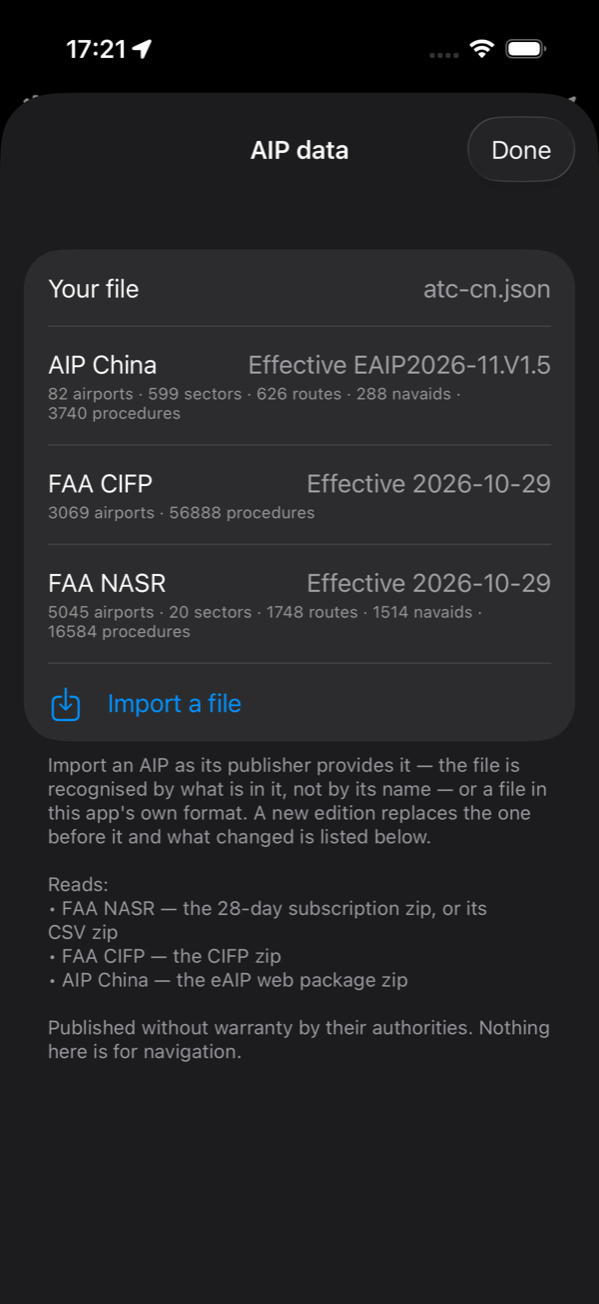
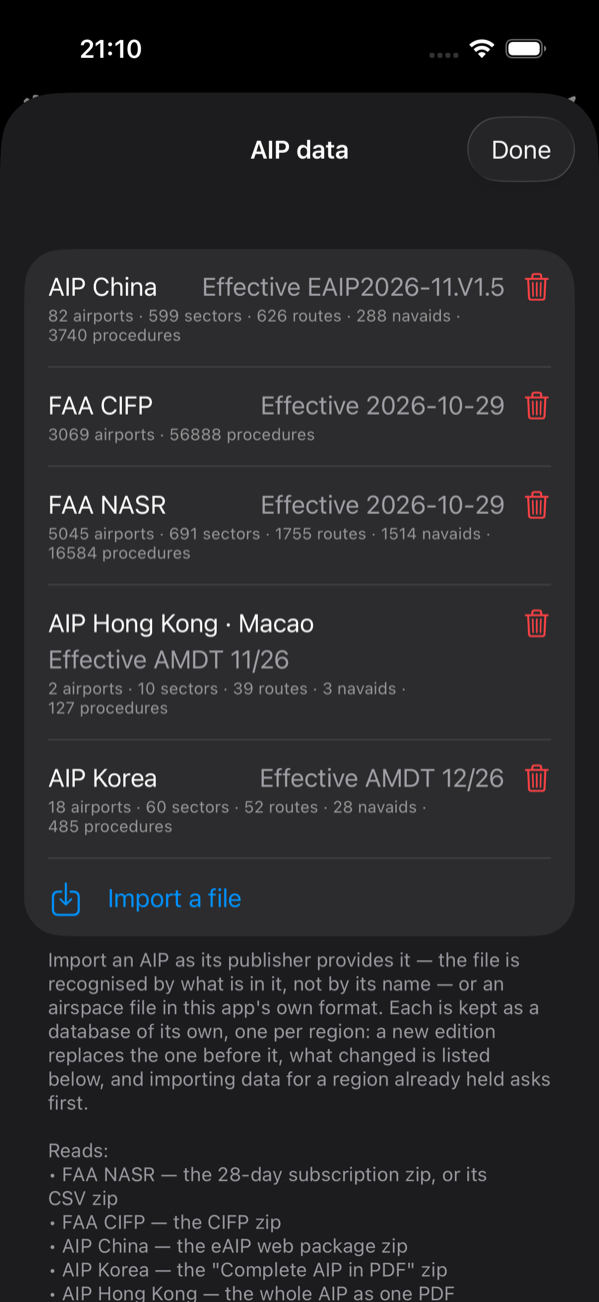
Importing an AIP: Korea's PDF zip and Hong Kong's aipall.pdf, Macao included
Where to download each, how long the import takes and why, what each does not give.
One source per region, files in the app's folder deleted once imported, the remove
button in place of a swipe, and Class B/C/D from the full NASR subscription. The AIP
data page shown with the publications held now.

diff --git a/docs/aip-import.html b/docs/aip-import.html
@@ -62,10 +62,12 @@
 <tr><th>Publication</th><th>The file to hand over</th><th>Size</th><th>What you get</th></tr>
 <tr><td>FAA <b>NASR</b> (United States)</td><td><code>28DaySubscription_Effective_<i>date</i>.zip</code>, or the CSV zip inside it</td><td>about 260 MB (the CSV zip, about 22 MB)</td><td>Airports and their frequencies, navaids, airways, each centre's boundary and the frequencies of its remote sites</td></tr>
 <tr><td>FAA <b>CIFP</b> (United States)</td><td><code>CIFP_<i>date</i>.zip</code></td><td>about 9 MB</td><td>Departures, arrivals, approaches and missed approaches, with altitude and speed limits</td></tr>
-<tr><td><b>AIP China</b> (eAIP)</td><td><code>EAIP<i>edition</i>_Web.zip</code></td><td>about 1.9 GB</td><td>Airports and their frequencies, control sectors (boundary, limits, frequency, callsign), routes, navaids, departures, arrivals and approaches</td></tr>
+<tr><td><b>AIP China</b> (eAIP)</td><td><code>EAIP<i>edition</i>_Web.zip</code></td><td>about 1.9 GB</td><td>Airports and their frequencies, control sectors (boundary, limits, frequency, callsign), FIR boundaries, routes, navaids, departures, arrivals and approaches</td></tr>
+<tr><td><b>AIP Korea</b></td><td><code>AIM_AIP AMDT_<i>number</i>.zip</code> ("Complete AIP in PDF")</td><td>about 1.8 GB</td><td>Airports and their frequencies, control sectors, FIR boundaries, routes, navaids, departures, arrivals and approaches</td></tr>
+<tr><td><b>AIP Hong Kong</b> (Macao included)</td><td><code>aipall.pdf</code>, the whole AIP as one PDF</td><td>about 170 MB</td><td>The frequencies of Hong Kong and Macao International, Hong Kong's control sectors and FIR boundary, routes, navaids, and both airports' departures, arrivals and approaches</td></tr>
 </table>
 <div class="note"><p><b>Recognised by what is inside, not by its name.</b> A renamed download is fine: the app opens the archive and tells what it is from its contents. A file it does not recognise is refused with a message, and nothing already imported is touched.</p></div>
-<p>Japan and Korea are being worked on. When they arrive they will appear in the <b>Reads</b> list at the foot of the app's AIP data page, which always states what the installed version takes.</p>
+<p>Japan is being worked on. When they arrive they will appear in the <b>Reads</b> list at the foot of the app's AIP data page, which always states what the installed version takes.</p>
 
 <h2>Where to get them</h2>
 <h3>United States: FAA NASR and CIFP</h3>
@@ -79,6 +81,13 @@
 <h3>China: the eAIP</h3>
 <p>The electronic AIP of China is downloaded with your own account: register at <a href="https://www.eaipchina.cn/e-AIP">https://www.eaipchina.cn/e-AIP</a>, sign in, and download the complete web package (a file named like <code>EAIP2026-11.V1.5_Web.zip</code>).</p>
 <div class="note"><p>AIP China is the copyright of the Civil Aviation Administration of China: free to consult and not to be redistributed. So the app does not carry it and this manual does not offer it. You download it with your own account, the app reads it on your device, and the data goes nowhere else.</p></div>
+
+<h3>Korea: the complete AIP in PDF</h3>
+<p>Korea's AIP is a public download and needs no account. Open the <a href="https://aim.koca.go.kr/eaipPub/Package/history-en-GB.html">AIP publication history on Korea's AIM site</a> and, in the edition currently in effect, choose <b>"Complete AIP in PDF"</b>. It downloads as a zip named like <code>AIM_AIP AMDT_12_26.zip</code>. The HTML edition on the same page is not what the app reads; take the PDF one.</p>
+
+<h3>Hong Kong and Macao: AIP Hong Kong</h3>
+<p>The Civil Aviation Department's AIP is a public download, needs no account, and is a single PDF: <a href="https://www.ais.gov.hk/HKAIP/aipall.pdf">https://www.ais.gov.hk/HKAIP/aipall.pdf</a>. The link always gives the edition in effect. Macao International is in AIP Hong Kong as well, so both airports appear after the import.</p>
+<div class="note"><p>AIP Korea and AIP Hong Kong are likewise the copyright of their publishers: free to consult and not to be redistributed. The app carries neither, and reads only the file you downloaded, on your device.</p></div>
 
 <h2>Importing in the app</h2>
 <ol class="steps">
@@ -97,6 +106,8 @@
 <tr><td>FAA NASR</td><td>seconds to a quarter of a minute</td><td>a dozen tables are read out of it</td></tr>
 <tr><td>FAA CIFP</td><td>a quarter of a minute</td><td>about 400,000 records</td></tr>
 <tr><td>AIP China</td><td>one to a few minutes</td><td>the procedures' coding tables are in more than 700 PDFs, read one at a time</td></tr>
+<tr><td>AIP Korea</td><td>a few minutes</td><td>every airport's coding tables are read out of the PDFs</td></tr>
+<tr><td>AIP Hong Kong</td><td>a few minutes to a quarter of an hour</td><td>the coding tables are pictures in the PDF, read one by one with the system's text recognition: 95 of them</td></tr>
 </table>
 <div class="note"><p><b>Keep the app open until it finishes.</b> After switching to another app or the home screen, the system allows about half a minute more; past that the import pauses and carries on when you return. Either way the data already there is not touched until the new edition is complete: if the system ends the app, all that is lost is this import.</p></div>
 <p>The archive is not unpacked onto the device: the app reads the parts it needs straight out of it. The one exception is the small CSV zip nested inside the full NASR subscription, which is taken out for the length of the import and removed when it ends.</p>
@@ -110,8 +121,8 @@
 <ul>
 <li><b>A first import</b> lists how many of each kind were read, and anything that could not be read with the reason.</li>
 <li><b>A newer edition</b> replaces the older one whole, and the two are then compared entry by entry: each kind shows how many were <b>added</b> (+), <b>removed</b> (−) and <b>changed</b> (~), and opens to show which. Two identical editions are reported as such.</li>
-<li><b>Deleting the download</b>: once read, the archive is no longer needed. A <b>Delete …</b> button under the result removes it; the app does not delete a file of yours without being asked.</li>
-<li><b>Dropping a publication</b>: swipe its row left and tap <b>Remove</b>.</li>
+<li><b>The downloaded file</b>: once read, it is no longer needed. A file in the app's own folder is deleted by the app as soon as the database is built, so it takes no space; for one anywhere else, a <b>Delete …</b> button under the result removes it, since the app does not delete a file of yours without being asked.</li>
+<li><b>Dropping a publication</b>: tap the red bin at the right of its row and confirm.</li>
 </ul>
 
 <h2>Where the data is used</h2>
@@ -120,7 +131,7 @@
 <li><b>ADS-B</b>: airways, navaids, airports, control sectors and procedures on the map and the radar.</li>
 </ul>
 <p>A country's data is large, so the app does not read it all at once: it reads the part being looked at. Move the map and that region is read. Far out, only control boundaries and airways are drawn; airports and procedures appear as you come in.</p>
-<p>Your own <a href="data-file.html">JSON file</a> and imported publications work together. Where both know the same airport or sector, your file's version is the one used.</p>
+<p><b>One source per region.</b> Each publication and each <a href="data-file.html">JSON file</a> becomes a database of its own, kept by region: China, Hong Kong and Macao, Korea and the United States are separate, can all be held at once, and are removed one at a time. When a file covers a region that is already held, the app asks before replacing it, and the old data is replaced only once the new is complete.</p>
 
 <h2>Other countries: a JSON file</h2>
 <p>The app cannot yet read the AIP of a country outside the table above. That does not stop you using its data: the app defines an open <a href="data-file.html">JSON file format</a>, and any country's data put into that shape imports and is drawn on the ATC and ADS-B pages just as a directly imported publication is.</p>
@@ -130,15 +141,19 @@
 <li><b>How</b>: the <a href="data-file.html">airspace data file</a> page goes through the format section by section and offers a Los Angeles example to download and alter. Coordinates may be written in decimal degrees or as a chart prints them, in degrees, minutes and seconds.</li>
 <li><b>Mistakes are reported</b>: on import the app names each thing it could not read. One wrong entry costs that entry, not the file.</li>
 </ul>
-<p>A JSON file and imported publications can be used together: import AIP China directly, say, and add Hong Kong from a JSON file of your own.</p>
+<p>A JSON file and imported publications can be used together as long as they cover different regions: import AIP China, Hong Kong and Korea directly, say, and add Japan from a JSON file of your own.</p>
 
 <h2>What each publication does not give</h2>
 <table>
 <tr><th>Publication</th><th>Missing</th><th>Why</th></tr>
 <tr><td>FAA NASR / CIFP</td><td>Sector boundaries below a centre</td><td>The United States does not publish them. A centre's frequencies are given by remote site, and the ATC page lists the sites within 150 km of you.</td></tr>
-<tr><td>FAA NASR</td><td>The shapes of Class B, C and D airspace</td><td>They are in a file of another format, not read yet.</td></tr>
+<tr><td>FAA NASR</td><td>The shapes of Class B, C and D airspace (from the CSV zip alone)</td><td>They are in another file of the full subscription, which the CSV zip does not include. Import the full one to have them.</td></tr>
 <tr><td>FAA NASR</td><td>Private strips and heliports</td><td>Only airports with an ICAO code or open to the public are taken, about 5,000.</td></tr>
-<tr><td>AIP China</td><td>Hong Kong, Macau, Taiwan</td><td>Each has an AIP of its own, not part of this publication.</td></tr>
+<tr><td>AIP China</td><td>Hong Kong, Macao, Taiwan</td><td>Each has an AIP of its own, not part of this publication. Hong Kong and Macao come from AIP Hong Kong above.</td></tr>
+<tr><td>AIP China</td><td>Conventional (non-RNAV) departures, arrivals and approaches</td><td>The app reads the procedures' database coding tables; a conventional procedure is defined by bearings and distances from navaids and has none.</td></tr>
+<tr><td>AIP Hong Kong</td><td>Macao's own control frequencies</td><td>AIP Hong Kong lists only Hong Kong ATC's frequencies for Macao traffic; Macao's tower, approach and the rest are in AIP Macao.</td></tr>
+<tr><td>AIP Hong Kong</td><td>The exact northern side of the FIR and the TMA</td><td>It is published as "along the limit of the territorial waters", with no coordinates. That side of the FIR is not drawn, and the TMA is closed with a straight line.</td></tr>
+<tr><td>AIP Hong Kong</td><td>A few conventional departures (RAMEN, RUMSY and others)</td><td>They have no coding table. Where a fix name in a table picture cannot be read, the import says so, leg by leg, and that leg is left out of the drawing.</td></tr>
 </table>
 
 <div class="pager">

diff --git a/src/en/aip-import.html b/src/en/aip-import.html
@@ -15,10 +15,12 @@
 <tr><th>Publication</th><th>The file to hand over</th><th>Size</th><th>What you get</th></tr>
 <tr><td>FAA <b>NASR</b> (United States)</td><td><code>28DaySubscription_Effective_<i>date</i>.zip</code>, or the CSV zip inside it</td><td>about 260 MB (the CSV zip, about 22 MB)</td><td>Airports and their frequencies, navaids, airways, each centre's boundary and the frequencies of its remote sites</td></tr>
 <tr><td>FAA <b>CIFP</b> (United States)</td><td><code>CIFP_<i>date</i>.zip</code></td><td>about 9 MB</td><td>Departures, arrivals, approaches and missed approaches, with altitude and speed limits</td></tr>
-<tr><td><b>AIP China</b> (eAIP)</td><td><code>EAIP<i>edition</i>_Web.zip</code></td><td>about 1.9 GB</td><td>Airports and their frequencies, control sectors (boundary, limits, frequency, callsign), routes, navaids, departures, arrivals and approaches</td></tr>
+<tr><td><b>AIP China</b> (eAIP)</td><td><code>EAIP<i>edition</i>_Web.zip</code></td><td>about 1.9 GB</td><td>Airports and their frequencies, control sectors (boundary, limits, frequency, callsign), FIR boundaries, routes, navaids, departures, arrivals and approaches</td></tr>
+<tr><td><b>AIP Korea</b></td><td><code>AIM_AIP AMDT_<i>number</i>.zip</code> ("Complete AIP in PDF")</td><td>about 1.8 GB</td><td>Airports and their frequencies, control sectors, FIR boundaries, routes, navaids, departures, arrivals and approaches</td></tr>
+<tr><td><b>AIP Hong Kong</b> (Macao included)</td><td><code>aipall.pdf</code>, the whole AIP as one PDF</td><td>about 170 MB</td><td>The frequencies of Hong Kong and Macao International, Hong Kong's control sectors and FIR boundary, routes, navaids, and both airports' departures, arrivals and approaches</td></tr>
 </table>
 <div class="note"><p><b>Recognised by what is inside, not by its name.</b> A renamed download is fine: the app opens the archive and tells what it is from its contents. A file it does not recognise is refused with a message, and nothing already imported is touched.</p></div>
-<p>Japan and Korea are being worked on. When they arrive they will appear in the <b>Reads</b> list at the foot of the app's AIP data page, which always states what the installed version takes.</p>
+<p>Japan is being worked on. When they arrive they will appear in the <b>Reads</b> list at the foot of the app's AIP data page, which always states what the installed version takes.</p>
 
 <h2>Where to get them</h2>
 <h3>United States: FAA NASR and CIFP</h3>
@@ -32,6 +34,13 @@
 <h3>China: the eAIP</h3>
 <p>The electronic AIP of China is downloaded with your own account: register at <a href="https://www.eaipchina.cn/e-AIP">https://www.eaipchina.cn/e-AIP</a>, sign in, and download the complete web package (a file named like <code>EAIP2026-11.V1.5_Web.zip</code>).</p>
 <div class="note"><p>AIP China is the copyright of the Civil Aviation Administration of China: free to consult and not to be redistributed. So the app does not carry it and this manual does not offer it. You download it with your own account, the app reads it on your device, and the data goes nowhere else.</p></div>
+
+<h3>Korea: the complete AIP in PDF</h3>
+<p>Korea's AIP is a public download and needs no account. Open the <a href="https://aim.koca.go.kr/eaipPub/Package/history-en-GB.html">AIP publication history on Korea's AIM site</a> and, in the edition currently in effect, choose <b>"Complete AIP in PDF"</b>. It downloads as a zip named like <code>AIM_AIP AMDT_12_26.zip</code>. The HTML edition on the same page is not what the app reads; take the PDF one.</p>
+
+<h3>Hong Kong and Macao: AIP Hong Kong</h3>
+<p>The Civil Aviation Department's AIP is a public download, needs no account, and is a single PDF: <a href="https://www.ais.gov.hk/HKAIP/aipall.pdf">https://www.ais.gov.hk/HKAIP/aipall.pdf</a>. The link always gives the edition in effect. Macao International is in AIP Hong Kong as well, so both airports appear after the import.</p>
+<div class="note"><p>AIP Korea and AIP Hong Kong are likewise the copyright of their publishers: free to consult and not to be redistributed. The app carries neither, and reads only the file you downloaded, on your device.</p></div>
 
 <h2>Importing in the app</h2>
 <ol class="steps">
@@ -50,6 +59,8 @@
 <tr><td>FAA NASR</td><td>seconds to a quarter of a minute</td><td>a dozen tables are read out of it</td></tr>
 <tr><td>FAA CIFP</td><td>a quarter of a minute</td><td>about 400,000 records</td></tr>
 <tr><td>AIP China</td><td>one to a few minutes</td><td>the procedures' coding tables are in more than 700 PDFs, read one at a time</td></tr>
+<tr><td>AIP Korea</td><td>a few minutes</td><td>every airport's coding tables are read out of the PDFs</td></tr>
+<tr><td>AIP Hong Kong</td><td>a few minutes to a quarter of an hour</td><td>the coding tables are pictures in the PDF, read one by one with the system's text recognition: 95 of them</td></tr>
 </table>
 <div class="note"><p><b>Keep the app open until it finishes.</b> After switching to another app or the home screen, the system allows about half a minute more; past that the import pauses and carries on when you return. Either way the data already there is not touched until the new edition is complete: if the system ends the app, all that is lost is this import.</p></div>
 <p>The archive is not unpacked onto the device: the app reads the parts it needs straight out of it. The one exception is the small CSV zip nested inside the full NASR subscription, which is taken out for the length of the import and removed when it ends.</p>
@@ -63,8 +74,8 @@
 <ul>
 <li><b>A first import</b> lists how many of each kind were read, and anything that could not be read with the reason.</li>
 <li><b>A newer edition</b> replaces the older one whole, and the two are then compared entry by entry: each kind shows how many were <b>added</b> (+), <b>removed</b> (−) and <b>changed</b> (~), and opens to show which. Two identical editions are reported as such.</li>
-<li><b>Deleting the download</b>: once read, the archive is no longer needed. A <b>Delete …</b> button under the result removes it; the app does not delete a file of yours without being asked.</li>
-<li><b>Dropping a publication</b>: swipe its row left and tap <b>Remove</b>.</li>
+<li><b>The downloaded file</b>: once read, it is no longer needed. A file in the app's own folder is deleted by the app as soon as the database is built, so it takes no space; for one anywhere else, a <b>Delete …</b> button under the result removes it, since the app does not delete a file of yours without being asked.</li>
+<li><b>Dropping a publication</b>: tap the red bin at the right of its row and confirm.</li>
 </ul>
 
 <h2>Where the data is used</h2>
@@ -73,7 +84,7 @@
 <li><b>ADS-B</b>: airways, navaids, airports, control sectors and procedures on the map and the radar.</li>
 </ul>
 <p>A country's data is large, so the app does not read it all at once: it reads the part being looked at. Move the map and that region is read. Far out, only control boundaries and airways are drawn; airports and procedures appear as you come in.</p>
-<p>Your own <a href="data-file.html">JSON file</a> and imported publications work together. Where both know the same airport or sector, your file's version is the one used.</p>
+<p><b>One source per region.</b> Each publication and each <a href="data-file.html">JSON file</a> becomes a database of its own, kept by region: China, Hong Kong and Macao, Korea and the United States are separate, can all be held at once, and are removed one at a time. When a file covers a region that is already held, the app asks before replacing it, and the old data is replaced only once the new is complete.</p>
 
 <h2>Other countries: a JSON file</h2>
 <p>The app cannot yet read the AIP of a country outside the table above. That does not stop you using its data: the app defines an open <a href="data-file.html">JSON file format</a>, and any country's data put into that shape imports and is drawn on the ATC and ADS-B pages just as a directly imported publication is.</p>
@@ -83,13 +94,17 @@
 <li><b>How</b>: the <a href="data-file.html">airspace data file</a> page goes through the format section by section and offers a Los Angeles example to download and alter. Coordinates may be written in decimal degrees or as a chart prints them, in degrees, minutes and seconds.</li>
 <li><b>Mistakes are reported</b>: on import the app names each thing it could not read. One wrong entry costs that entry, not the file.</li>
 </ul>
-<p>A JSON file and imported publications can be used together: import AIP China directly, say, and add Hong Kong from a JSON file of your own.</p>
+<p>A JSON file and imported publications can be used together as long as they cover different regions: import AIP China, Hong Kong and Korea directly, say, and add Japan from a JSON file of your own.</p>
 
 <h2>What each publication does not give</h2>
 <table>
 <tr><th>Publication</th><th>Missing</th><th>Why</th></tr>
 <tr><td>FAA NASR / CIFP</td><td>Sector boundaries below a centre</td><td>The United States does not publish them. A centre's frequencies are given by remote site, and the ATC page lists the sites within 150 km of you.</td></tr>
-<tr><td>FAA NASR</td><td>The shapes of Class B, C and D airspace</td><td>They are in a file of another format, not read yet.</td></tr>
+<tr><td>FAA NASR</td><td>The shapes of Class B, C and D airspace (from the CSV zip alone)</td><td>They are in another file of the full subscription, which the CSV zip does not include. Import the full one to have them.</td></tr>
 <tr><td>FAA NASR</td><td>Private strips and heliports</td><td>Only airports with an ICAO code or open to the public are taken, about 5,000.</td></tr>
-<tr><td>AIP China</td><td>Hong Kong, Macau, Taiwan</td><td>Each has an AIP of its own, not part of this publication.</td></tr>
+<tr><td>AIP China</td><td>Hong Kong, Macao, Taiwan</td><td>Each has an AIP of its own, not part of this publication. Hong Kong and Macao come from AIP Hong Kong above.</td></tr>
+<tr><td>AIP China</td><td>Conventional (non-RNAV) departures, arrivals and approaches</td><td>The app reads the procedures' database coding tables; a conventional procedure is defined by bearings and distances from navaids and has none.</td></tr>
+<tr><td>AIP Hong Kong</td><td>Macao's own control frequencies</td><td>AIP Hong Kong lists only Hong Kong ATC's frequencies for Macao traffic; Macao's tower, approach and the rest are in AIP Macao.</td></tr>
+<tr><td>AIP Hong Kong</td><td>The exact northern side of the FIR and the TMA</td><td>It is published as "along the limit of the territorial waters", with no coordinates. That side of the FIR is not drawn, and the TMA is closed with a straight line.</td></tr>
+<tr><td>AIP Hong Kong</td><td>A few conventional departures (RAMEN, RUMSY and others)</td><td>They have no coding table. Where a fix name in a table picture cannot be read, the import says so, leg by leg, and that leg is left out of the drawing.</td></tr>
 </table>

diff --git a/docs/zh/aip-import.html b/docs/zh/aip-import.html
@@ -62,10 +62,12 @@
 <tr><th>出版物</th><th>交给 App 的文件</th><th>大小</th><th>得到什么</th></tr>
 <tr><td>美国 FAA <b>NASR</b></td><td><code>28DaySubscription_Effective_<i>日期</i>.zip</code>，或其中的 CSV 压缩包</td><td>约 260 MB（CSV 包约 22 MB）</td><td>机场和频率、导航台、航路、各管制中心的边界和遥控台站频率</td></tr>
 <tr><td>美国 FAA <b>CIFP</b></td><td><code>CIFP_<i>日期</i>.zip</code></td><td>约 9 MB</td><td>离场、进场、进近和复飞程序，带高度和速度限制</td></tr>
-<tr><td><b>中国 AIP</b>（eAIP）</td><td><code>EAIP<i>版本</i>_Web.zip</code></td><td>约 1.9 GB</td><td>机场和频率、管制扇区（边界、高度、频率、呼号）、航路、导航台、进离场和进近程序</td></tr>
+<tr><td><b>中国 AIP</b>（eAIP）</td><td><code>EAIP<i>版本</i>_Web.zip</code></td><td>约 1.9 GB</td><td>机场和频率、管制扇区（边界、高度、频率、呼号）、飞行情报区边界、航路、导航台、进离场和进近程序</td></tr>
+<tr><td><b>韩国 AIP</b></td><td><code>AIM_AIP AMDT_<i>期号</i>.zip</code>（“Complete AIP in PDF”）</td><td>约 1.8 GB</td><td>机场和频率、管制扇区、飞行情报区边界、航路、导航台、进离场和进近程序</td></tr>
+<tr><td><b>香港 AIP</b>（含澳门）</td><td><code>aipall.pdf</code>，整本 AIP 一个 PDF</td><td>约 170 MB</td><td>香港和澳门机场的频率、香港的管制扇区和飞行情报区边界、航路、导航台、两地的进离场和进近程序</td></tr>
 </table>
 <div class="note"><p><b>靠内容识别，不看文件名。</b>下载后改过名字也没关系：App 打开压缩包，看里面有什么来判断它是哪一种。认不出来的文件会直接告诉你，不会改动已有的数据。</p></div>
-<p>日本和韩国的 AIP 正在做，做好后会出现在 App 里 AIP data 页底部的“Reads”清单里，那份清单始终是当前版本实际支持的全部。</p>
+<p>日本的 AIP 正在做，做好后会出现在 App 里 AIP data 页底部的“Reads”清单里，那份清单始终是当前版本实际支持的全部。</p>
 
 <h2>去哪里下载</h2>
 <h3>美国：FAA NASR 和 CIFP</h3>
@@ -79,6 +81,13 @@
 <h3>中国：eAIP</h3>
 <p>中国民航的电子版 AIP 需要注册后自行下载：到 <a href="https://www.eaipchina.cn/e-AIP">https://www.eaipchina.cn/e-AIP</a> 注册账号，登录后下载网页版的完整压缩包（文件名形如 <code>EAIP2026-11.V1.5_Web.zip</code>）。</p>
 <div class="note"><p>中国 AIP 的版权归中国民用航空局所有，可以免费查阅，但不能再分发。所以 App 不附带它，本手册也不提供下载：由你用自己的账号下载，App 在你的设备上读取，数据不会离开这台设备。</p></div>
+
+<h3>韩国：AIP 的 PDF 完整版</h3>
+<p>韩国国土交通部的 AIP 公开下载，不需要注册。打开 <a href="https://aim.koca.go.kr/eaipPub/Package/history-en-GB.html">韩国 AIM 的 AIP 发布历史页面</a>，在当前生效的那一期里点 <b>“Complete AIP in PDF”</b>，下载的是一个形如 <code>AIM_AIP AMDT_12_26.zip</code> 的压缩包。同一页上的网页版（HTML）App 不读，请选 PDF 完整版。</p>
+
+<h3>香港和澳门：香港 AIP</h3>
+<p>香港民航处的 AIP 公开下载，不需要注册，整本就是一个 PDF：<a href="https://www.ais.gov.hk/HKAIP/aipall.pdf">https://www.ais.gov.hk/HKAIP/aipall.pdf</a>。这个链接始终指向当前生效的一期。澳门国际机场的内容在香港 AIP 里也有，导入后两个机场都会出现。</p>
+<div class="note"><p>韩国和香港的 AIP 同样受各自发布机构的版权保护，可以查阅，但不能再分发。App 不附带，只在你的设备上读取你自己下载的文件。</p></div>
 
 <h2>在 App 里导入</h2>
 <ol class="steps">
@@ -97,6 +106,8 @@
 <tr><td>FAA NASR</td><td>几秒到十几秒</td><td>只读其中十几张表</td></tr>
 <tr><td>FAA CIFP</td><td>十几秒</td><td>约 40 万行记录</td></tr>
 <tr><td>中国 eAIP</td><td>一到几分钟</td><td>程序的编码表在 700 多份 PDF 里，要逐份读</td></tr>
+<tr><td>韩国 AIP</td><td>几分钟</td><td>每个机场的程序编码表都要从 PDF 里读出来</td></tr>
+<tr><td>香港 AIP</td><td>几分钟到十几分钟</td><td>程序编码表在 PDF 里是图片，要用系统的文字识别逐张读，一共 95 张图</td></tr>
 </table>
 <div class="note"><p><b>请保持 App 开着，直到导入完成。</b>切到别的 App 或回到桌面后，系统只再给它半分钟左右；超过之后导入会暂停，回到 App 时接着做。不管怎样，旧的数据在新的一版完整建好之前都不会被动到：中途被系统结束，损失的只是这一次导入。</p></div>
 <p>压缩包不会被解压到设备上：App 直接从里面读它需要的那部分。唯一的例外是 NASR 完整包里嵌着的 CSV 小压缩包，会临时取出来，导入结束时删掉。</p>
@@ -110,8 +121,8 @@
 <ul>
 <li><b>第一次导入</b>：列出各类数据的数量，以及有哪些内容没能读出来和原因。</li>
 <li><b>导入新的一期</b>：新的一期整体替换旧的一期，然后逐条比较，列出每一类<b>新增</b>（+）、<b>删除</b>（−）、<b>改动</b>（~）了多少，点开可以看具体是哪些。两期完全一样时会直接告诉你没有变化。</li>
-<li><b>删除下载的压缩包</b>：读完之后压缩包就用不着了。结果下面有一个 <b>Delete …</b> 按钮可以把它删掉，App 不会不问就删你自己文件夹里的东西。</li>
-<li><b>不想要某份出版物了</b>：在列表里把那一行向左滑，点 <b>Remove</b>。</li>
+<li><b>下载的文件</b>：读完之后文件就用不着了。如果文件放在 App 自己的文件夹里，数据库建好后 App 会自动把它删掉，不占空间；放在其他位置的，结果下面有一个 <b>Delete …</b> 按钮，App 不会不问就删你自己文件夹里的东西。</li>
+<li><b>不想要某份出版物了</b>：点那一行右边的红色垃圾桶，确认后删除。</li>
 </ul>
 
 <h2>导入的数据用在哪</h2>
@@ -120,7 +131,7 @@
 <li><b>ADS-B 页</b>：地图和雷达上的航路、导航台、机场、管制扇区和进离场程序。</li>
 </ul>
 <p>一个国家的数据很大，App 不会一次全部读进来，而是看到哪里读到哪里：地图移到哪个区域，就读那个区域的数据。地图拉得很远时只画管制区边界和航路，拉近后才出现机场和程序。</p>
-<p>你自己的 <a href="data-file.html">JSON 文件</a>和导入的出版物可以同时使用；同一个机场或扇区两边都有时，以你自己的文件为准。</p>
+<p><b>每个地区只保留一份来源。</b>每份出版物、每个 <a href="data-file.html">JSON 文件</a>导入后都是一个独立的数据库，按地区区分：中国、香港和澳门、韩国、美国各是各的，可以同时存在，单独删除。如果要导入的文件和已有的数据是同一个地区，App 会先问你要不要替换，新的数据完整建好之后才会替换旧的。</p>
 
 <h2>其他国家：用 JSON 文件</h2>
 <p>上面那张表以外的国家，App 目前不能直接读它们的 AIP。这不妨碍使用：App 另外规定了一种公开的 <a href="data-file.html">JSON 文件格式</a>，任何国家的数据只要整理成这个格式就能导入，和直接导入的出版物同样显示在 ATC 页和 ADS-B 页上。</p>
@@ -130,15 +141,19 @@
 <li><b>怎么做</b>：<a href="data-file.html">航图数据文件</a>一页逐节说明了格式，并附有一份可以直接下载的洛杉矶示例，照着改最快。坐标既可以写十进制度，也可以照航图上的写法写成度分秒。</li>
 <li><b>写错了会告诉你</b>：导入时 App 会逐条指出读不懂的地方，一处写错只损失那一处，不会整份文件作废。</li>
 </ul>
-<p>JSON 文件和直接导入的出版物可以同时存在。比如直接导入中国的 eAIP，再用一份自己整理的 JSON 补上香港。</p>
+<p>JSON 文件和直接导入的出版物可以同时存在，只要地区不同。比如直接导入中国、香港和韩国的 AIP，再用一份自己整理的 JSON 补上日本。</p>
 
 <h2>各出版物目前读不到的内容</h2>
 <table>
 <tr><th>出版物</th><th>没有的内容</th><th>原因</th></tr>
 <tr><td>FAA NASR / CIFP</td><td>管制中心以下的扇区边界</td><td>美国不公布这一层的边界。中心的频率按遥控台站给出，ATC 页列出离你 150 公里以内的台站。</td></tr>
-<tr><td>FAA NASR</td><td>B、C、D 类空域的形状</td><td>在另一种格式的文件里，还没有读。</td></tr>
+<tr><td>FAA NASR</td><td>B、C、D 类空域的形状（只导入 CSV 包时）</td><td>这些形状在完整订阅包里的另一份文件中，只有 CSV 的小包里没有。要的话请导入完整包。</td></tr>
 <tr><td>FAA NASR</td><td>私人起降场和直升机场</td><td>只收有 ICAO 代码或对公众开放的机场，约 5000 个。</td></tr>
-<tr><td>中国 eAIP</td><td>香港、澳门、台湾</td><td>各有自己的 AIP，不在这份出版物里。</td></tr>
+<tr><td>中国 eAIP</td><td>香港、澳门、台湾</td><td>各有自己的 AIP，不在这份出版物里。香港和澳门可以用上面的香港 AIP 导入。</td></tr>
+<tr><td>中国 eAIP</td><td>传统（非 RNAV）进离场和进近程序</td><td>App 读的是程序的数据库编码表，传统程序靠导航台方位和距离定义，没有编码表。</td></tr>
+<tr><td>香港 AIP</td><td>澳门自己的管制频率</td><td>香港 AIP 只列出香港管制为澳门航班提供的频率；澳门塔台、进近等频率在澳门 AIP 里。</td></tr>
+<tr><td>香港 AIP</td><td>飞行情报区和终端区北边的准确边界</td><td>这一段公布为“沿领海界线”，没有坐标。飞行情报区的这一段不画，终端区用直线封闭。</td></tr>
+<tr><td>香港 AIP</td><td>几条传统离场（RAMEN、RUMSY 等）</td><td>没有编码表。个别航段图片里的航点名识别不出来，导入结果里会逐条列出，这一段在图上留空。</td></tr>
 </table>
 
 <div class="pager">

diff --git a/src/zh/aip-import.html b/src/zh/aip-import.html
@@ -15,10 +15,12 @@
 <tr><th>出版物</th><th>交给 App 的文件</th><th>大小</th><th>得到什么</th></tr>
 <tr><td>美国 FAA <b>NASR</b></td><td><code>28DaySubscription_Effective_<i>日期</i>.zip</code>，或其中的 CSV 压缩包</td><td>约 260 MB（CSV 包约 22 MB）</td><td>机场和频率、导航台、航路、各管制中心的边界和遥控台站频率</td></tr>
 <tr><td>美国 FAA <b>CIFP</b></td><td><code>CIFP_<i>日期</i>.zip</code></td><td>约 9 MB</td><td>离场、进场、进近和复飞程序，带高度和速度限制</td></tr>
-<tr><td><b>中国 AIP</b>（eAIP）</td><td><code>EAIP<i>版本</i>_Web.zip</code></td><td>约 1.9 GB</td><td>机场和频率、管制扇区（边界、高度、频率、呼号）、航路、导航台、进离场和进近程序</td></tr>
+<tr><td><b>中国 AIP</b>（eAIP）</td><td><code>EAIP<i>版本</i>_Web.zip</code></td><td>约 1.9 GB</td><td>机场和频率、管制扇区（边界、高度、频率、呼号）、飞行情报区边界、航路、导航台、进离场和进近程序</td></tr>
+<tr><td><b>韩国 AIP</b></td><td><code>AIM_AIP AMDT_<i>期号</i>.zip</code>（“Complete AIP in PDF”）</td><td>约 1.8 GB</td><td>机场和频率、管制扇区、飞行情报区边界、航路、导航台、进离场和进近程序</td></tr>
+<tr><td><b>香港 AIP</b>（含澳门）</td><td><code>aipall.pdf</code>，整本 AIP 一个 PDF</td><td>约 170 MB</td><td>香港和澳门机场的频率、香港的管制扇区和飞行情报区边界、航路、导航台、两地的进离场和进近程序</td></tr>
 </table>
 <div class="note"><p><b>靠内容识别，不看文件名。</b>下载后改过名字也没关系：App 打开压缩包，看里面有什么来判断它是哪一种。认不出来的文件会直接告诉你，不会改动已有的数据。</p></div>
-<p>日本和韩国的 AIP 正在做，做好后会出现在 App 里 AIP data 页底部的“Reads”清单里，那份清单始终是当前版本实际支持的全部。</p>
+<p>日本的 AIP 正在做，做好后会出现在 App 里 AIP data 页底部的“Reads”清单里，那份清单始终是当前版本实际支持的全部。</p>
 
 <h2>去哪里下载</h2>
 <h3>美国：FAA NASR 和 CIFP</h3>
@@ -32,6 +34,13 @@
 <h3>中国：eAIP</h3>
 <p>中国民航的电子版 AIP 需要注册后自行下载：到 <a href="https://www.eaipchina.cn/e-AIP">https://www.eaipchina.cn/e-AIP</a> 注册账号，登录后下载网页版的完整压缩包（文件名形如 <code>EAIP2026-11.V1.5_Web.zip</code>）。</p>
 <div class="note"><p>中国 AIP 的版权归中国民用航空局所有，可以免费查阅，但不能再分发。所以 App 不附带它，本手册也不提供下载：由你用自己的账号下载，App 在你的设备上读取，数据不会离开这台设备。</p></div>
+
+<h3>韩国：AIP 的 PDF 完整版</h3>
+<p>韩国国土交通部的 AIP 公开下载，不需要注册。打开 <a href="https://aim.koca.go.kr/eaipPub/Package/history-en-GB.html">韩国 AIM 的 AIP 发布历史页面</a>，在当前生效的那一期里点 <b>“Complete AIP in PDF”</b>，下载的是一个形如 <code>AIM_AIP AMDT_12_26.zip</code> 的压缩包。同一页上的网页版（HTML）App 不读，请选 PDF 完整版。</p>
+
+<h3>香港和澳门：香港 AIP</h3>
+<p>香港民航处的 AIP 公开下载，不需要注册，整本就是一个 PDF：<a href="https://www.ais.gov.hk/HKAIP/aipall.pdf">https://www.ais.gov.hk/HKAIP/aipall.pdf</a>。这个链接始终指向当前生效的一期。澳门国际机场的内容在香港 AIP 里也有，导入后两个机场都会出现。</p>
+<div class="note"><p>韩国和香港的 AIP 同样受各自发布机构的版权保护，可以查阅，但不能再分发。App 不附带，只在你的设备上读取你自己下载的文件。</p></div>
 
 <h2>在 App 里导入</h2>
 <ol class="steps">
@@ -50,6 +59,8 @@
 <tr><td>FAA NASR</td><td>几秒到十几秒</td><td>只读其中十几张表</td></tr>
 <tr><td>FAA CIFP</td><td>十几秒</td><td>约 40 万行记录</td></tr>
 <tr><td>中国 eAIP</td><td>一到几分钟</td><td>程序的编码表在 700 多份 PDF 里，要逐份读</td></tr>
+<tr><td>韩国 AIP</td><td>几分钟</td><td>每个机场的程序编码表都要从 PDF 里读出来</td></tr>
+<tr><td>香港 AIP</td><td>几分钟到十几分钟</td><td>程序编码表在 PDF 里是图片，要用系统的文字识别逐张读，一共 95 张图</td></tr>
 </table>
 <div class="note"><p><b>请保持 App 开着，直到导入完成。</b>切到别的 App 或回到桌面后，系统只再给它半分钟左右；超过之后导入会暂停，回到 App 时接着做。不管怎样，旧的数据在新的一版完整建好之前都不会被动到：中途被系统结束，损失的只是这一次导入。</p></div>
 <p>压缩包不会被解压到设备上：App 直接从里面读它需要的那部分。唯一的例外是 NASR 完整包里嵌着的 CSV 小压缩包，会临时取出来，导入结束时删掉。</p>
@@ -63,8 +74,8 @@
 <ul>
 <li><b>第一次导入</b>：列出各类数据的数量，以及有哪些内容没能读出来和原因。</li>
 <li><b>导入新的一期</b>：新的一期整体替换旧的一期，然后逐条比较，列出每一类<b>新增</b>（+）、<b>删除</b>（−）、<b>改动</b>（~）了多少，点开可以看具体是哪些。两期完全一样时会直接告诉你没有变化。</li>
-<li><b>删除下载的压缩包</b>：读完之后压缩包就用不着了。结果下面有一个 <b>Delete …</b> 按钮可以把它删掉，App 不会不问就删你自己文件夹里的东西。</li>
-<li><b>不想要某份出版物了</b>：在列表里把那一行向左滑，点 <b>Remove</b>。</li>
+<li><b>下载的文件</b>：读完之后文件就用不着了。如果文件放在 App 自己的文件夹里，数据库建好后 App 会自动把它删掉，不占空间；放在其他位置的，结果下面有一个 <b>Delete …</b> 按钮，App 不会不问就删你自己文件夹里的东西。</li>
+<li><b>不想要某份出版物了</b>：点那一行右边的红色垃圾桶，确认后删除。</li>
 </ul>
 
 <h2>导入的数据用在哪</h2>
@@ -73,7 +84,7 @@
 <li><b>ADS-B 页</b>：地图和雷达上的航路、导航台、机场、管制扇区和进离场程序。</li>
 </ul>
 <p>一个国家的数据很大，App 不会一次全部读进来，而是看到哪里读到哪里：地图移到哪个区域，就读那个区域的数据。地图拉得很远时只画管制区边界和航路，拉近后才出现机场和程序。</p>
-<p>你自己的 <a href="data-file.html">JSON 文件</a>和导入的出版物可以同时使用；同一个机场或扇区两边都有时，以你自己的文件为准。</p>
+<p><b>每个地区只保留一份来源。</b>每份出版物、每个 <a href="data-file.html">JSON 文件</a>导入后都是一个独立的数据库，按地区区分：中国、香港和澳门、韩国、美国各是各的，可以同时存在，单独删除。如果要导入的文件和已有的数据是同一个地区，App 会先问你要不要替换，新的数据完整建好之后才会替换旧的。</p>
 
 <h2>其他国家：用 JSON 文件</h2>
 <p>上面那张表以外的国家，App 目前不能直接读它们的 AIP。这不妨碍使用：App 另外规定了一种公开的 <a href="data-file.html">JSON 文件格式</a>，任何国家的数据只要整理成这个格式就能导入，和直接导入的出版物同样显示在 ATC 页和 ADS-B 页上。</p>
@@ -83,13 +94,17 @@
 <li><b>怎么做</b>：<a href="data-file.html">航图数据文件</a>一页逐节说明了格式，并附有一份可以直接下载的洛杉矶示例，照着改最快。坐标既可以写十进制度，也可以照航图上的写法写成度分秒。</li>
 <li><b>写错了会告诉你</b>：导入时 App 会逐条指出读不懂的地方，一处写错只损失那一处，不会整份文件作废。</li>
 </ul>
-<p>JSON 文件和直接导入的出版物可以同时存在。比如直接导入中国的 eAIP，再用一份自己整理的 JSON 补上香港。</p>
+<p>JSON 文件和直接导入的出版物可以同时存在，只要地区不同。比如直接导入中国、香港和韩国的 AIP，再用一份自己整理的 JSON 补上日本。</p>
 
 <h2>各出版物目前读不到的内容</h2>
 <table>
 <tr><th>出版物</th><th>没有的内容</th><th>原因</th></tr>
 <tr><td>FAA NASR / CIFP</td><td>管制中心以下的扇区边界</td><td>美国不公布这一层的边界。中心的频率按遥控台站给出，ATC 页列出离你 150 公里以内的台站。</td></tr>
-<tr><td>FAA NASR</td><td>B、C、D 类空域的形状</td><td>在另一种格式的文件里，还没有读。</td></tr>
+<tr><td>FAA NASR</td><td>B、C、D 类空域的形状（只导入 CSV 包时）</td><td>这些形状在完整订阅包里的另一份文件中，只有 CSV 的小包里没有。要的话请导入完整包。</td></tr>
 <tr><td>FAA NASR</td><td>私人起降场和直升机场</td><td>只收有 ICAO 代码或对公众开放的机场，约 5000 个。</td></tr>
-<tr><td>中国 eAIP</td><td>香港、澳门、台湾</td><td>各有自己的 AIP，不在这份出版物里。</td></tr>
+<tr><td>中国 eAIP</td><td>香港、澳门、台湾</td><td>各有自己的 AIP，不在这份出版物里。香港和澳门可以用上面的香港 AIP 导入。</td></tr>
+<tr><td>中国 eAIP</td><td>传统（非 RNAV）进离场和进近程序</td><td>App 读的是程序的数据库编码表，传统程序靠导航台方位和距离定义，没有编码表。</td></tr>
+<tr><td>香港 AIP</td><td>澳门自己的管制频率</td><td>香港 AIP 只列出香港管制为澳门航班提供的频率；澳门塔台、进近等频率在澳门 AIP 里。</td></tr>
+<tr><td>香港 AIP</td><td>飞行情报区和终端区北边的准确边界</td><td>这一段公布为“沿领海界线”，没有坐标。飞行情报区的这一段不画，终端区用直线封闭。</td></tr>
+<tr><td>香港 AIP</td><td>几条传统离场（RAMEN、RUMSY 等）</td><td>没有编码表。个别航段图片里的航点名识别不出来，导入结果里会逐条列出，这一段在图上留空。</td></tr>
 </table>
